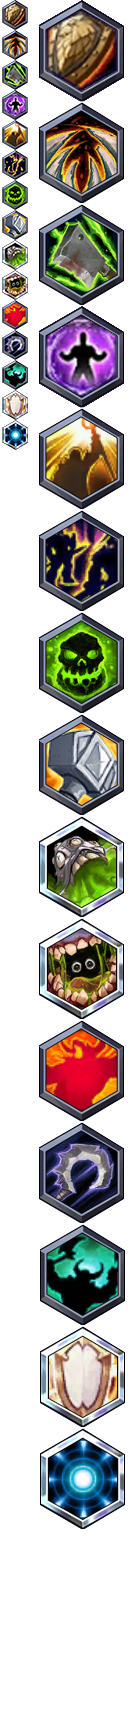
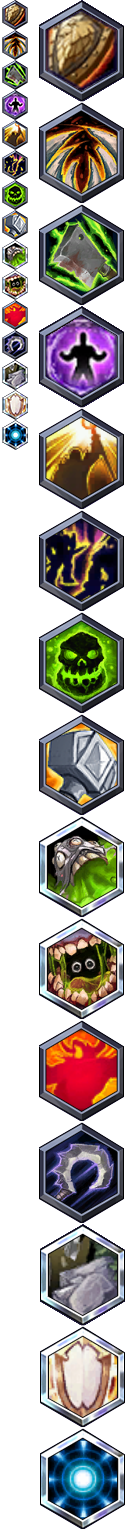
stitches ss bug fix

diff --git a/public/css/style.css b/public/css/style.css
@@ -6646,7 +6646,7 @@ p.white { color: #FFF; }
 .talents-icon.stitches.pulverize { background-position: 0px -60px; }
 .talents-icon.stitches.fishing-hook { background-position: 0px -330px; }
 .talents-icon.stitches.shish-kabob { background-position: 0px -330px; }
-.talents-icon.stitches.imposing-presence { background-position: 0px -360px; }
+.talents-icon.stitches.stoneskin { background-position: 0px -360px; }
 /* Tier 7 */
 .talents-icon.stitches.regenerative-bile { background-position: 0px -240px; }
 .talents-icon.stitches.hungry-hungry-stitches { background-position: 0px -270px; }
@@ -6681,7 +6681,7 @@ p.white { color: #FFF; }
 .talents-icon.stitches.large.pulverize { background-position: -30px -204px; }
 .talents-icon.stitches.large.fishing-hook { background-position: -30px -1122px; }
 .talents-icon.stitches.large.shish-kabob { background-position: -30px -1122px; }
-.talents-icon.stitches.large.imposing-presence { background-position: -30px -1224px; }
+.talents-icon.stitches.large.stoneskin { background-position: -30px -1224px; }
 /* Tier 7 */
 .talents-icon.stitches.large.regenerative-bile { background-position: -30px -816px; }
 .talents-icon.stitches.large.hungry-hungry-stitches { background-position: -30px -918px; }
